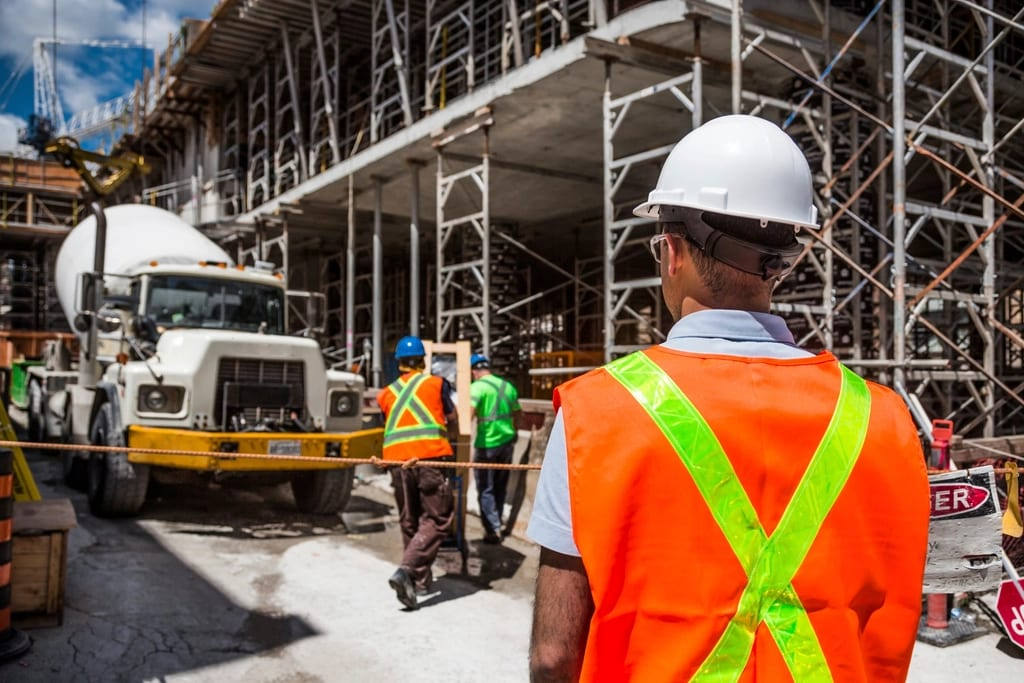
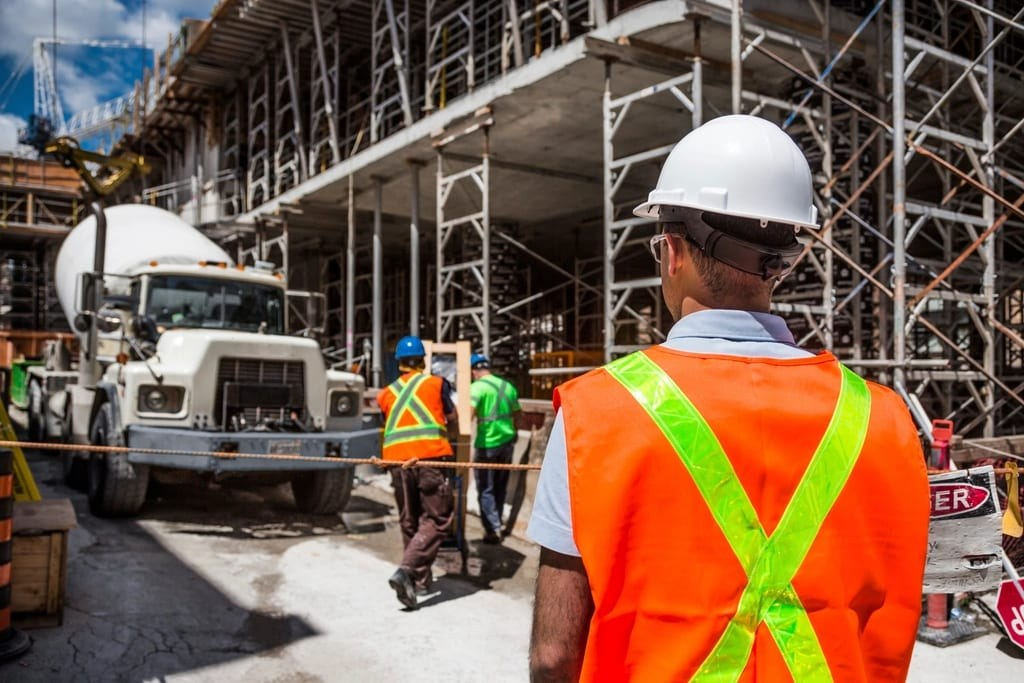
Add floating WhatsApp button; new safety photo; recolor truck bumper
- Floating WhatsApp chat button (wa.me/96897280130) on every page,
  bottom corner, mirrored for Arabic
- Occupational Health & Safety section now uses the supplied
  safety-briefing photo
- Manpower Solutions photo: truck bumper recolored from yellow to gray

Changed region(s): [[0.125, 0.6149, 0.375, 0.7072]]

diff --git a/src/data/photos.ts b/src/data/photos.ts
@@ -22,6 +22,7 @@ import pipeline from '@/assets/photos/pipeline.jpg';
 import solarField from '@/assets/photos/solar-field.jpg';
 import meetingRoom from '@/assets/photos/meeting-room.jpg';
 import boardroom from '@/assets/photos/boardroom.jpg';
+import safetyBriefing from '@/assets/photos/safety-briefing.jpg';
 
 export interface Photo {
   src: ImageMetadata;
@@ -54,6 +55,7 @@ export const photos = {
   pipeline: { src: pipeline, alt: { en: 'Pipeline sections laid along a construction corridor', ar: 'أنابيب ممدودة على مسار مشروع إنشائي' } },
   solarField: { src: solarField, alt: { en: 'Solar panel field', ar: 'حقل ألواح طاقة شمسية' } },
   meetingRoom: { src: meetingRoom, alt: { en: 'Meeting room prepared for a presentation', ar: 'قاعة اجتماعات مجهزة لعرض تقديمي' } },
+  safetyBriefing: { src: safetyBriefing, alt: { en: 'Safety briefing for a site team in hard hats and high-visibility vests', ar: 'إحاطة سلامة لفريق عمل بالخوذ والسترات العاكسة في الموقع' } },
   boardroom: { src: boardroom, alt: { en: 'Modern boardroom', ar: 'قاعة اجتماعات حديثة' } },
 } satisfies Record<string, Photo>;
 

diff --git a/src/i18n/ui.ts b/src/i18n/ui.ts
@@ -62,6 +62,7 @@ export const ui = {
   'cta.about': { en: 'More about GGP', ar: 'المزيد عن الشركة' },
   'cta.learnMore': { en: 'Learn more', ar: 'اعرف المزيد' },
   'cta.call': { en: 'Call us', ar: 'اتصل بنا' },
+  'cta.whatsapp': { en: 'Chat with us on WhatsApp', ar: 'تواصل معنا عبر واتساب' },
 
   'footer.quickLinks': { en: 'Quick links', ar: 'روابط سريعة' },
   'footer.services': { en: 'Services', ar: 'الخدمات' },

diff --git a/src/config/site.ts b/src/config/site.ts
@@ -13,6 +13,7 @@ export const site = {
 
   phone: '+968 97280130',
   phoneHref: 'tel:+96897280130',
+  whatsappHref: 'https://wa.me/96897280130',
   email: 'info@ggp-oman.com',
 
   address: {
